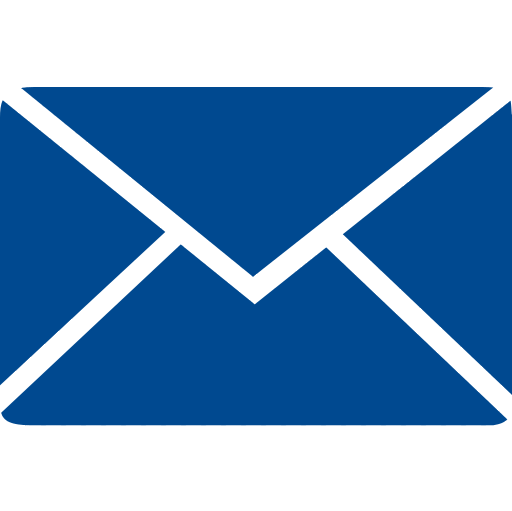
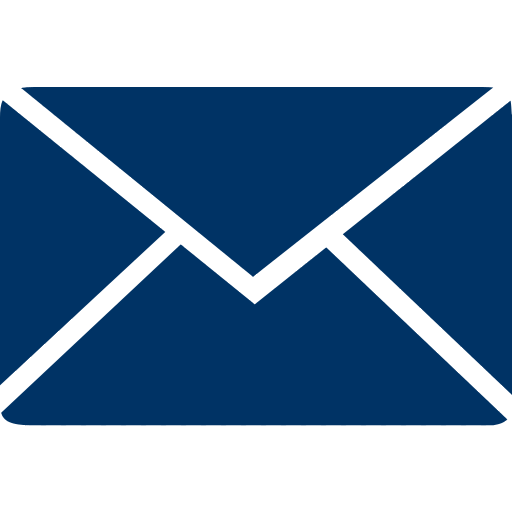
made more changes

diff --git a/happy.css b/happy.css
@@ -44,12 +44,13 @@ h2 {
 }
 
 .descriptionText {
-  padding-top: 30px;
+  padding-top: 25px;
   width: 200px;
   margin-left: 35px;
   text-align: center;
   color: #004990;
 }
+
 
 .shortcut {
   display: inline-block;
@@ -110,14 +111,14 @@ margin-left: 50px;
 }
 
 #exerciseChooseButton {
-background-image: url(iconcopy.png);
+background-image: url(iconcopy1.png);
 background-size: 50px;
 background-repeat: no-repeat;
 margin-left: 70px;
 }
 
 #playChooseButton {
-background-image: url(Untitledcopy.png);
+background-image: url(Untitledcopy1.png);
 background-size: 50px;
 background-repeat: no-repeat;
 margin-left: 70px;
@@ -180,7 +181,7 @@ background-position:center;
 
 #homeButton {
 width : 36px;
-background-image: url(001copy.png);
+background-image: url(home.png);
 background-size: 36px;
 background-repeat: no-repeat;
 float: right;
@@ -216,7 +217,10 @@ float: right;
 
 #headerText {
   text-align: center;
+  color: #003365;
 }
+
+
 
 #icon1 {
   width: 50px;
@@ -275,6 +279,8 @@ float: right;
   background-color: #004990 !important;
   color: #fff !important;
   text-shadow: 1px 1px #000 !important;
+  width: 140px;
+  margin: 0 auto;
 }
 
 .sendButton {
